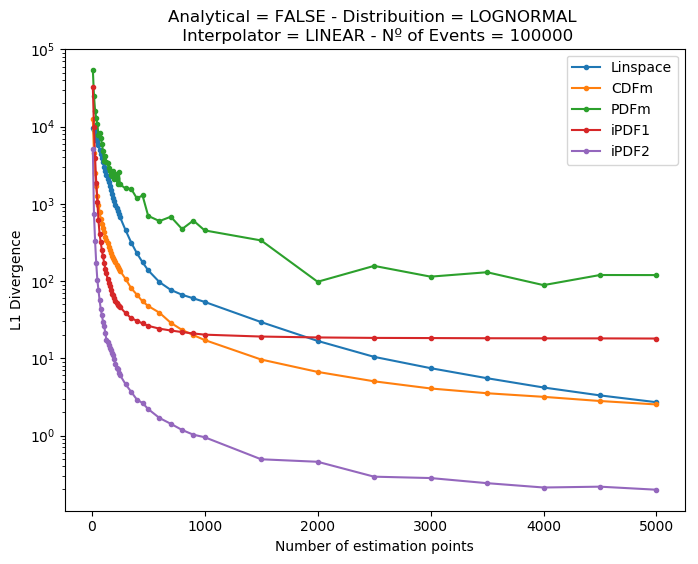
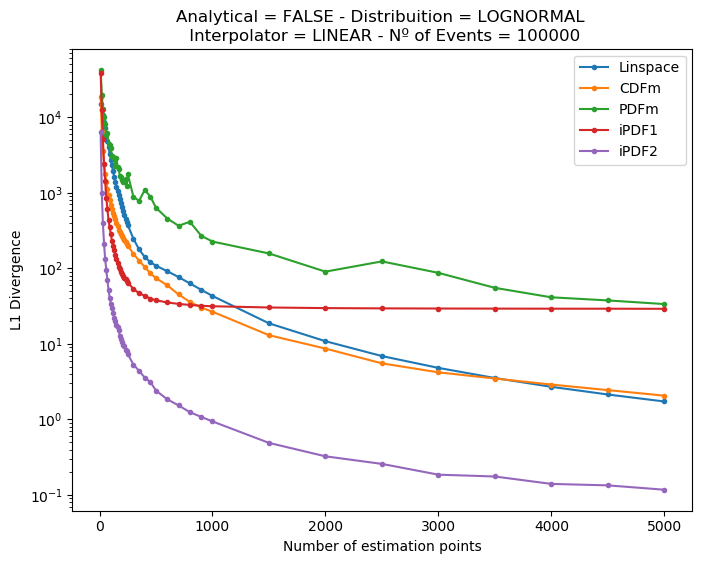
limits

diff --git a/methodDisc.py b/methodDisc.py
@@ -13,32 +13,30 @@ In this file we have a few functions:
 """
 
 
-def CDFm(data,nPoint,dist = 'normal', mu = 0, sigma = 1,analitica = False):
+def CDFm(data,nPoint,dist = 'normal', mu = 0, sigma = 1,analitica = False,lim = None):
     import numpy as np
     from scipy.interpolate import interp1d
     from statsmodels.distributions import ECDF
     from scipy.stats import norm, lognorm
     
     eps = 5e-5
-    yest = np.linspace(0+eps,1-eps,nPoint)
+    y = np.linspace(eps,1-eps,nPoint)
     
     if not analitica:    
         ecdf = ECDF(data)
-        inf,sup = min(data),max(data)
-        xest = np.linspace(inf,sup,int(100e3))
+        xest = np.linspace(lim[0],lim[1],int(100e3))
         yest = ecdf(xest)
         interp = interp1d(yest,xest,fill_value = 'extrapolate', kind = 'nearest')
-        y = np.linspace(eps,1-eps,nPoint)
         x = interp(y)
     else:
-        if dist is 'normal':
-            x = norm.ppf(yest, loc = mu, scale = sigma)
-        elif dist is 'lognormal':
-            x = lognorm.ppf(yest, sigma, loc = 0, scale = np.exp(mu))
+        if dist == 'normal':
+            x = norm.ppf(y, loc = mu, scale = sigma)
+        elif dist == 'lognormal':
+            x = lognorm.ppf(y, sigma, loc = 0, scale = np.exp(mu))
     
     return x
 
-def PDFm(data,nPoint,dist = 'normal', mu = 0, sigma = 1,analitica = False):
+def PDFm(data,nPoint,dist = 'normal', mu = 0, sigma = 1,analitica = False,lim = None):
     import numpy as np
     from scipy.interpolate import interp1d
     from scipy.stats import norm, lognorm
@@ -70,10 +68,11 @@ def PDFm(data,nPoint,dist = 'normal', mu = 0, sigma = 1,analitica = False):
             y = np.linspace(yest[M],yest[m],nPoint)
             x = interp(y)
     else:
-        if dist is 'normal':
-            inf, sup = norm.interval(0.9999, loc = mu, scale = sigma)
+        inf,sup = lim[0],lim[1]
+        if dist == 'normal':
+            #inf, sup = norm.interval(0.9999, loc = mu, scale = sigma)
               
-      
+            
             X1 = np.linspace(inf,mu,int(1e6))
             Y1 = norm.pdf(X1, loc = mu, scale = sigma)
             interp = interp1d(Y1,X1)
@@ -85,10 +84,8 @@ def PDFm(data,nPoint,dist = 'normal', mu = 0, sigma = 1,analitica = False):
             interp = interp1d(Y2,X2)
             y2 = np.flip(y1,0)
             x2 = interp(y2)
-        elif dist is 'lognormal':
-            inf, sup = lognorm.interval(0.9999, sigma, loc = 0, scale = np.exp(mu))
-            inf = lognorm.pdf(sup, sigma, loc = 0, scale = np.exp(mu))
-            inf = lognorm.ppf(inf, sigma, loc = 0, scale = np.exp(mu))
+        elif dist == 'lognormal':
+           
             mode = np.exp(mu - sigma**2)
               
             X1 = np.linspace(inf,mode,int(1e6))
@@ -106,7 +103,7 @@ def PDFm(data,nPoint,dist = 'normal', mu = 0, sigma = 1,analitica = False):
     
     return x
 
-def iPDF1(data,nPoint,dist = 'normal', mu = 0, sigma = 1,analitica = False):
+def iPDF1(data,nPoint,dist = 'normal', mu = 0, sigma = 1,analitica = False,lim=None):
     import numpy as np
     from scipy.interpolate import interp1d
     from methodDisc import mediaMovel
@@ -114,6 +111,7 @@ def iPDF1(data,nPoint,dist = 'normal', mu = 0, sigma = 1,analitica = False):
     from someFunctions import ash, dpdf
     eps = 5e-5
     n = 5
+    inf,sup = lim
     if not analitica:       
     #x,y = ash(data,m=10,tip='linear',normed=True)
     #m = np.where(y == 0)
@@ -133,12 +131,14 @@ def iPDF1(data,nPoint,dist = 'normal', mu = 0, sigma = 1,analitica = False):
     
     else:
         ngrid = int(1e6)
-        if dist is 'normal':
-            inf, sup = norm.interval(0.9999, loc = mu, scale = sigma)
-        elif dist is 'lognormal':
-            inf, sup = lognorm.interval(0.9999, sigma, loc = 0, scale = np.exp(mu))
-            inf = lognorm.pdf(sup, sigma, loc = 0, scale = np.exp(mu))
-            inf = lognorm.ppf(inf, sigma, loc = 0, scale = np.exp(mu))  
+# =============================================================================
+#         if dist is 'normal':
+#             inf, sup = norm.interval(0.9999, loc = mu, scale = sigma)
+#         elif dist is 'lognormal':
+#             inf, sup = lognorm.interval(0.9999, sigma, loc = 0, scale = np.exp(mu))
+#             inf = lognorm.pdf(sup, sigma, loc = 0, scale = np.exp(mu))
+#             inf = lognorm.ppf(inf, sigma, loc = 0, scale = np.exp(mu))  
+# =============================================================================
        
         x = np.linspace(inf,sup,ngrid)
         y = dpdf(x,mu,sigma,dist)
@@ -151,14 +151,14 @@ def iPDF1(data,nPoint,dist = 'normal', mu = 0, sigma = 1,analitica = False):
     
     return X
 
-def iPDF2(data,nPoint,dist = 'normal', mu = 0, sigma = 1,analitica = False):
+def iPDF2(data,nPoint,dist = 'normal', mu = 0, sigma = 1,analitica = False,lim=None):
     import numpy as np
     from scipy.interpolate import interp1d
     from someFunctions import ash, ddpdf
     from scipy.stats import norm, lognorm
     eps = 5e-5
     n = 5
-          
+    inf,sup = lim
 #    x,y = ash(data,m=10,tip='linear',normed=True)
 #    m = np.where(y == 0)
 #    y[m]=np.min(y)
@@ -178,13 +178,15 @@ def iPDF2(data,nPoint,dist = 'normal', mu = 0, sigma = 1,analitica = False):
         X = interp(Y)
     else:
         ngrid = int(1e6)
-        if dist is 'normal':
-            inf, sup = norm.interval(0.9999, loc = mu, scale = sigma)
-        elif dist is 'lognormal':
-            inf, sup = lognorm.interval(0.9999, sigma, loc = 0, scale = np.exp(mu))
-            inf = lognorm.pdf(sup, sigma, loc = 0, scale = np.exp(mu))
-            inf = lognorm.ppf(inf, sigma, loc = 0, scale = np.exp(mu))
-            
+# =============================================================================
+#         if dist is 'normal':
+#             inf, sup = norm.interval(0.9999, loc = mu, scale = sigma)
+#         elif dist is 'lognormal':
+#             inf, sup = lognorm.interval(0.9999, sigma, loc = 0, scale = np.exp(mu))
+#             inf = lognorm.pdf(sup, sigma, loc = 0, scale = np.exp(mu))
+#             inf = lognorm.ppf(inf, sigma, loc = 0, scale = np.exp(mu))
+#             
+# =============================================================================
         x = np.linspace(inf,sup,ngrid)
         y = ddpdf(x,mu,sigma,dist)
         cdf = np.cumsum(y)

diff --git a/run.py b/run.py
@@ -30,7 +30,7 @@ if __name__ == '__main__':
     npts = np.concatenate([list(range(10,250,10)),list(range(250,550,50)),list(range(600,1100,100)),list(range(1500,5500,500))])
     kinds = ['Linspace', 'CDFm', 'PDFm', 'iPDF1', 'iPDF2']
     ROI = 1
-    seed = None
+    seed = 10
     ngrid = int(1e6)
     weight = False
     outlier = 0
@@ -38,6 +38,7 @@ if __name__ == '__main__':
     #plotKind = 'Linspace CDFm PDFm iPDF1 iPDF2'.split()
     plotKind = 'PDFm'.split()
     plotNest = [10,50,200,500,1500]
+    analitica = True
     #-------------------------------------------------------
     np.random.seed(seed)    #seed = np.random.get_state()  np.random.set_state(seed)
     
@@ -48,19 +49,15 @@ if __name__ == '__main__':
     
     divergence = 'L1'       # L2 e KL
     interpolator = 'linear'    # nearest
-    distribuition = 'normal'   # lognormal
+    dist = 2   # 1: normal, 2 : lognormal
     data = int(100e3)
+    distribuition = 'normal lognormal'.split()[dist-1]
     #####################################
     # Definition of the distribuition parameters
     
     
     #####################################
     
-    if data:
-        analitica = False
-    else:
-        analitica = True
- 
     probROIord = {}
     areaROIord = {}
     
@@ -72,22 +69,29 @@ if __name__ == '__main__':
     n = []
     truth = truth1 = sf.pdf
     
-    if data:
-        if distribuition == 'normal':
-                d = np.random.normal(mu,sigma,data)
-        elif distribuition == 'lognormal':
-                d = np.random.lognormal(mu, sigma, data)
-        inf,sup = min(d),max(d)
+# =============================================================================
+#     if data:
+#         if distribuition == 'normal':
+#                 d = np.random.normal(mu,sigma,data)
+#         elif distribuition == 'lognormal':
+#                 d = np.random.lognormal(mu, sigma, data)
+#         
+# =============================================================================
+    d = getattr(np.random,distribuition)(mu,sigma,data)
+    lim = inf,sup = min(d),max(d)
         
-    else:
-        d=0
-        if distribuition == 'normal':
-              inf, sup = norm.interval(0.9999, loc = mu, scale = sigma)
-            
-        elif distribuition == 'lognormal':
-              inf, sup = lognorm.interval(0.9999, sigma, loc = 0, scale = np.exp(mu))
-              inf = lognorm.pdf(sup, sigma, loc = 0, scale = np.exp(mu))
-              inf = lognorm.ppf(inf, sigma, loc = 0, scale = np.exp(mu))
+        
+# =============================================================================
+#     else:
+#         d=0
+#         if distribuition == 'normal':
+#               inf, sup = norm.interval(0.9999, loc = mu, scale = sigma)
+#             
+#         elif distribuition == 'lognormal':
+#               inf, sup = lognorm.interval(0.9999, sigma, loc = 0, scale = np.exp(mu))
+#               inf = lognorm.pdf(sup, sigma, loc = 0, scale = np.exp(mu))
+#               inf = lognorm.ppf(inf, sigma, loc = 0, scale = np.exp(mu))
+# =============================================================================
               
     xgrid = np.linspace(inf,sup,ngrid)
     xgridROI = xgrid.reshape([ROI,ngrid//ROI])
@@ -107,7 +111,7 @@ if __name__ == '__main__':
                             xest = np.linspace(inf,sup,nest)
                 
             else:
-                xest = getattr(md,kind)(d,nest,distribuition,mu,sigma,analitica)
+                xest = getattr(md,kind)(d,nest,distribuition,mu,sigma,analitica,lim)
     
     
             YY = sf.pdf(xest,mu, sigma,distribuition)
@@ -177,7 +181,7 @@ if __name__ == '__main__':
                           %(analitica,distribuition.upper(),kind,interpolator.upper(),nest,data))
                 plt.savefig('./Figures/' + kind + '/MIDLEPLOT_' + kind + '_' + str(analitica).upper() + '_' + distribuition.upper() + '_' + interpolator.upper() + '_' + str(nest) + '_' + str(data) + '.png', bbox_inches='tight')
                 
-    fig, ax1 = plt.subplots(figsize=(8,6),dpi=100)
+   # fig, ax1 = plt.subplots(figsize=(8,6),dpi=100)
     for kind in kinds:
         plt.plot(npts,areaROIord[kind],'-o',label = kind, ms = 3)
     plt.yscale('log')
